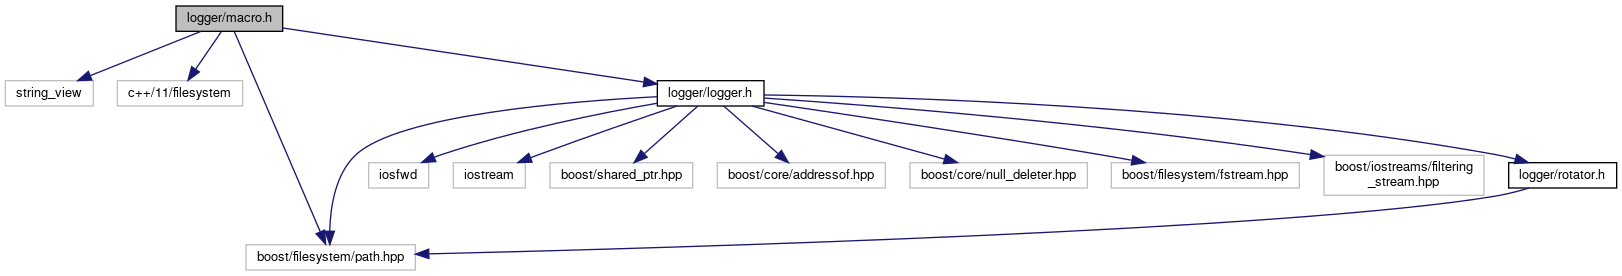
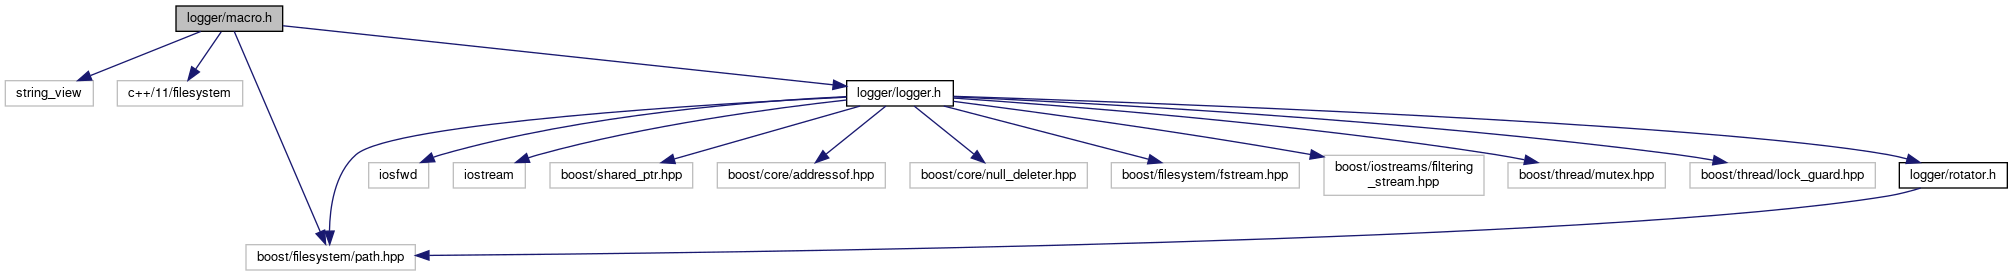
Auto commit

diff --git a/logger_8h_source.html b/logger_8h_source.html
@@ -82,112 +82,117 @@ $(function() {
 <div class="line"><a id="l00013" name="l00013"></a><span class="lineno">   13</span><span class="preprocessor">#include &lt;boost/filesystem/path.hpp&gt;</span></div>
 <div class="line"><a id="l00014" name="l00014"></a><span class="lineno">   14</span><span class="preprocessor">#include &lt;boost/filesystem/fstream.hpp&gt;</span></div>
 <div class="line"><a id="l00015" name="l00015"></a><span class="lineno">   15</span><span class="preprocessor">#include &lt;boost/iostreams/filtering_stream.hpp&gt;</span></div>
-<div class="line"><a id="l00016" name="l00016"></a><span class="lineno">   16</span> </div>
-<div class="line"><a id="l00017" name="l00017"></a><span class="lineno">   17</span><span class="preprocessor">#include &lt;<a class="code" href="rotator_8h.html">logger/rotator.h</a>&gt;</span></div>
+<div class="line"><a id="l00016" name="l00016"></a><span class="lineno">   16</span><span class="preprocessor">#include &lt;boost/thread/mutex.hpp&gt;</span></div>
+<div class="line"><a id="l00017" name="l00017"></a><span class="lineno">   17</span><span class="preprocessor">#include &lt;boost/thread/lock_guard.hpp&gt;</span></div>
 <div class="line"><a id="l00018" name="l00018"></a><span class="lineno">   18</span> </div>
-<div class="line"><a id="l00019" name="l00019"></a><span class="lineno">   19</span> </div>
-<div class="line"><a id="l00020" name="l00020"></a><span class="lineno">   20</span><span class="keyword">namespace </span>alexen {</div>
-<div class="line"><a id="l00021" name="l00021"></a><span class="lineno">   21</span><span class="keyword">namespace </span>tiny_logger {</div>
-<div class="line"><a id="l00022" name="l00022"></a><span class="lineno">   22</span> </div>
-<div class="line"><a id="l00023" name="l00023"></a><span class="lineno">   23</span> </div>
-<div class="line"><a id="l00029" name="l00029"></a><span class="lineno"><a class="line" href="logger_8h.html#aec4cb4747f49b847e8ebcaaf7c097165">   29</a></span><span class="keyword">enum</span> <a class="code hl_enumeration" href="logger_8h.html#aec4cb4747f49b847e8ebcaaf7c097165">Level</a> {</div>
-<div class="line"><a id="l00030" name="l00030"></a><span class="lineno">   30</span>     Debug,</div>
-<div class="line"><a id="l00031" name="l00031"></a><span class="lineno">   31</span>     Info,</div>
-<div class="line"><a id="l00032" name="l00032"></a><span class="lineno">   32</span>     Warn,</div>
-<div class="line"><a id="l00033" name="l00033"></a><span class="lineno">   33</span>     Error</div>
-<div class="line"><a id="l00034" name="l00034"></a><span class="lineno">   34</span>};</div>
-<div class="line"><a id="l00035" name="l00035"></a><span class="lineno">   35</span> </div>
-<div class="line"><a id="l00036" name="l00036"></a><span class="lineno">   36</span> </div>
-<div class="line"><a id="l00042" name="l00042"></a><span class="lineno"><a class="line" href="classalexen_1_1tiny__logger_1_1LoggerRecord.html">   42</a></span><span class="keyword">class </span><a class="code hl_class" href="classalexen_1_1tiny__logger_1_1LoggerRecord.html">LoggerRecord</a> {</div>
-<div class="line"><a id="l00043" name="l00043"></a><span class="lineno">   43</span><span class="keyword">public</span>:</div>
-<div class="line"><a id="l00044" name="l00044"></a><span class="lineno">   44</span>     <span class="keyword">explicit</span> <a class="code hl_class" href="classalexen_1_1tiny__logger_1_1LoggerRecord.html">LoggerRecord</a>( std::ostream&amp; os, <span class="keyword">const</span> <a class="code hl_enumeration" href="logger_8h.html#aec4cb4747f49b847e8ebcaaf7c097165">Level</a> level );</div>
-<div class="line"><a id="l00045" name="l00045"></a><span class="lineno">   45</span>     <a class="code hl_class" href="classalexen_1_1tiny__logger_1_1LoggerRecord.html">~LoggerRecord</a>();</div>
-<div class="line"><a id="l00046" name="l00046"></a><span class="lineno">   46</span> </div>
-<div class="line"><a id="l00049" name="l00049"></a><span class="lineno">   49</span>     <span class="keyword">template</span>&lt; <span class="keyword">typename</span> T &gt;</div>
-<div class="line"><a id="l00050" name="l00050"></a><span class="lineno"><a class="line" href="classalexen_1_1tiny__logger_1_1LoggerRecord.html#a2beb5517296e1d19a96a37908b32c3c0">   50</a></span>     <a class="code hl_class" href="classalexen_1_1tiny__logger_1_1LoggerRecord.html">LoggerRecord</a>&amp; <a class="code hl_function" href="classalexen_1_1tiny__logger_1_1LoggerRecord.html#a2beb5517296e1d19a96a37908b32c3c0">operator&lt;&lt;</a>( <span class="keyword">const</span> T&amp; value )</div>
-<div class="line"><a id="l00051" name="l00051"></a><span class="lineno">   51</span>     {</div>
-<div class="line"><a id="l00052" name="l00052"></a><span class="lineno">   52</span>          os_ &lt;&lt; value;</div>
-<div class="line"><a id="l00053" name="l00053"></a><span class="lineno">   53</span>          <span class="keywordflow">return</span> *<span class="keyword">this</span>;</div>
-<div class="line"><a id="l00054" name="l00054"></a><span class="lineno">   54</span>     }</div>
-<div class="line"><a id="l00055" name="l00055"></a><span class="lineno">   55</span><span class="keyword">private</span>:</div>
-<div class="line"><a id="l00056" name="l00056"></a><span class="lineno">   56</span>     std::ostream&amp; os_;</div>
-<div class="line"><a id="l00057" name="l00057"></a><span class="lineno">   57</span>};</div>
-<div class="line"><a id="l00058" name="l00058"></a><span class="lineno">   58</span> </div>
-<div class="line"><a id="l00059" name="l00059"></a><span class="lineno">   59</span> </div>
-<div class="line"><a id="l00060" name="l00060"></a><span class="lineno">   60</span><span class="keyword">using</span> OstreamPtr = boost::shared_ptr&lt; std::ostream &gt;;</div>
+<div class="line"><a id="l00019" name="l00019"></a><span class="lineno">   19</span><span class="preprocessor">#include &lt;<a class="code" href="rotator_8h.html">logger/rotator.h</a>&gt;</span></div>
+<div class="line"><a id="l00020" name="l00020"></a><span class="lineno">   20</span> </div>
+<div class="line"><a id="l00021" name="l00021"></a><span class="lineno">   21</span> </div>
+<div class="line"><a id="l00022" name="l00022"></a><span class="lineno">   22</span><span class="keyword">namespace </span>alexen {</div>
+<div class="line"><a id="l00023" name="l00023"></a><span class="lineno">   23</span><span class="keyword">namespace </span>tiny_logger {</div>
+<div class="line"><a id="l00024" name="l00024"></a><span class="lineno">   24</span> </div>
+<div class="line"><a id="l00025" name="l00025"></a><span class="lineno">   25</span> </div>
+<div class="line"><a id="l00031" name="l00031"></a><span class="lineno"><a class="line" href="logger_8h.html#aec4cb4747f49b847e8ebcaaf7c097165">   31</a></span><span class="keyword">enum</span> <a class="code hl_enumeration" href="logger_8h.html#aec4cb4747f49b847e8ebcaaf7c097165">Level</a> {</div>
+<div class="line"><a id="l00032" name="l00032"></a><span class="lineno">   32</span>     Debug,</div>
+<div class="line"><a id="l00033" name="l00033"></a><span class="lineno">   33</span>     Info,</div>
+<div class="line"><a id="l00034" name="l00034"></a><span class="lineno">   34</span>     Warn,</div>
+<div class="line"><a id="l00035" name="l00035"></a><span class="lineno">   35</span>     Error</div>
+<div class="line"><a id="l00036" name="l00036"></a><span class="lineno">   36</span>};</div>
+<div class="line"><a id="l00037" name="l00037"></a><span class="lineno">   37</span> </div>
+<div class="line"><a id="l00038" name="l00038"></a><span class="lineno">   38</span> </div>
+<div class="line"><a id="l00044" name="l00044"></a><span class="lineno"><a class="line" href="classalexen_1_1tiny__logger_1_1LoggerRecord.html">   44</a></span><span class="keyword">class </span><a class="code hl_class" href="classalexen_1_1tiny__logger_1_1LoggerRecord.html">LoggerRecord</a> {</div>
+<div class="line"><a id="l00045" name="l00045"></a><span class="lineno">   45</span><span class="keyword">public</span>:</div>
+<div class="line"><a id="l00046" name="l00046"></a><span class="lineno">   46</span>     <a class="code hl_class" href="classalexen_1_1tiny__logger_1_1LoggerRecord.html">LoggerRecord</a>( boost::mutex&amp; m, std::ostream&amp; os, <span class="keyword">const</span> <a class="code hl_enumeration" href="logger_8h.html#aec4cb4747f49b847e8ebcaaf7c097165">Level</a> level );</div>
+<div class="line"><a id="l00047" name="l00047"></a><span class="lineno">   47</span>     <a class="code hl_class" href="classalexen_1_1tiny__logger_1_1LoggerRecord.html">~LoggerRecord</a>();</div>
+<div class="line"><a id="l00048" name="l00048"></a><span class="lineno">   48</span> </div>
+<div class="line"><a id="l00051" name="l00051"></a><span class="lineno">   51</span>     <span class="keyword">template</span>&lt; <span class="keyword">typename</span> T &gt;</div>
+<div class="line"><a id="l00052" name="l00052"></a><span class="lineno"><a class="line" href="classalexen_1_1tiny__logger_1_1LoggerRecord.html#a2beb5517296e1d19a96a37908b32c3c0">   52</a></span>     <a class="code hl_class" href="classalexen_1_1tiny__logger_1_1LoggerRecord.html">LoggerRecord</a>&amp; <a class="code hl_function" href="classalexen_1_1tiny__logger_1_1LoggerRecord.html#a2beb5517296e1d19a96a37908b32c3c0">operator&lt;&lt;</a>( <span class="keyword">const</span> T&amp; value )</div>
+<div class="line"><a id="l00053" name="l00053"></a><span class="lineno">   53</span>     {</div>
+<div class="line"><a id="l00054" name="l00054"></a><span class="lineno">   54</span>          os_ &lt;&lt; value;</div>
+<div class="line"><a id="l00055" name="l00055"></a><span class="lineno">   55</span>          <span class="keywordflow">return</span> *<span class="keyword">this</span>;</div>
+<div class="line"><a id="l00056" name="l00056"></a><span class="lineno">   56</span>     }</div>
+<div class="line"><a id="l00057" name="l00057"></a><span class="lineno">   57</span><span class="keyword">private</span>:</div>
+<div class="line"><a id="l00058" name="l00058"></a><span class="lineno">   58</span>     boost::lock_guard&lt; boost::mutex &gt; lock_;</div>
+<div class="line"><a id="l00059" name="l00059"></a><span class="lineno">   59</span>     std::ostream&amp; os_;</div>
+<div class="line"><a id="l00060" name="l00060"></a><span class="lineno">   60</span>};</div>
 <div class="line"><a id="l00061" name="l00061"></a><span class="lineno">   61</span> </div>
 <div class="line"><a id="l00062" name="l00062"></a><span class="lineno">   62</span> </div>
-<div class="line"><a id="l00069" name="l00069"></a><span class="lineno"><a class="line" href="logger_8h.html#a1cb844f18013bf389caca06165921eba">   69</a></span><span class="keyword">inline</span> OstreamPtr <a class="code hl_function" href="logger_8h.html#a1cb844f18013bf389caca06165921eba">makeOstreamPtr</a>( std::ostream&amp; os )</div>
-<div class="line"><a id="l00070" name="l00070"></a><span class="lineno">   70</span>{</div>
-<div class="line"><a id="l00071" name="l00071"></a><span class="lineno">   71</span>     <span class="keywordflow">return</span> boost::shared_ptr&lt; std::ostream &gt;{ boost::addressof( os ), boost::null_deleter{} };</div>
-<div class="line"><a id="l00072" name="l00072"></a><span class="lineno">   72</span>}</div>
-<div class="line"><a id="l00073" name="l00073"></a><span class="lineno">   73</span> </div>
-<div class="line"><a id="l00074" name="l00074"></a><span class="lineno">   74</span> </div>
-<div class="line"><a id="l00076" name="l00076"></a><span class="lineno"><a class="line" href="structalexen_1_1tiny__logger_1_1Counter.html">   76</a></span><span class="keyword">struct </span><a class="code hl_struct" href="structalexen_1_1tiny__logger_1_1Counter.html">Counter</a> : boost::iostreams::multichar_output_filter {</div>
-<div class="line"><a id="l00077" name="l00077"></a><span class="lineno">   77</span>     <span class="keyword">explicit</span> <a class="code hl_struct" href="structalexen_1_1tiny__logger_1_1Counter.html">Counter</a>( std::size_t init = 0u ) : chars_{ init } {}</div>
-<div class="line"><a id="l00078" name="l00078"></a><span class="lineno">   78</span> </div>
-<div class="line"><a id="l00079" name="l00079"></a><span class="lineno">   79</span>     <span class="keyword">template</span>&lt; <span class="keyword">typename</span> Sink &gt;</div>
-<div class="line"><a id="l00080" name="l00080"></a><span class="lineno">   80</span>     std::streamsize write( Sink&amp; sink, <span class="keyword">const</span> char_type* s, std::streamsize n )</div>
-<div class="line"><a id="l00081" name="l00081"></a><span class="lineno">   81</span>     {</div>
-<div class="line"><a id="l00082" name="l00082"></a><span class="lineno">   82</span>          <span class="keyword">const</span> <span class="keyword">auto</span> result = boost::iostreams::write( sink, s, n );</div>
-<div class="line"><a id="l00083" name="l00083"></a><span class="lineno">   83</span>          chars_ += result &gt; 0 ? result : 0;</div>
-<div class="line"><a id="l00084" name="l00084"></a><span class="lineno">   84</span>          <span class="keywordflow">return</span> result;</div>
-<div class="line"><a id="l00085" name="l00085"></a><span class="lineno">   85</span>     }</div>
-<div class="line"><a id="l00086" name="l00086"></a><span class="lineno">   86</span> </div>
-<div class="line"><a id="l00087" name="l00087"></a><span class="lineno">   87</span>     std::size_t chars() <span class="keyword">const</span> <span class="keyword">noexcept</span> { <span class="keywordflow">return</span> chars_; }</div>
-<div class="line"><a id="l00088" name="l00088"></a><span class="lineno">   88</span>     <span class="keywordtype">void</span> reset( std::size_t init = 0u ) <span class="keyword">noexcept</span> { chars_ = init; }</div>
+<div class="line"><a id="l00063" name="l00063"></a><span class="lineno">   63</span><span class="keyword">using</span> OstreamPtr = boost::shared_ptr&lt; std::ostream &gt;;</div>
+<div class="line"><a id="l00064" name="l00064"></a><span class="lineno">   64</span> </div>
+<div class="line"><a id="l00065" name="l00065"></a><span class="lineno">   65</span> </div>
+<div class="line"><a id="l00072" name="l00072"></a><span class="lineno"><a class="line" href="logger_8h.html#a1cb844f18013bf389caca06165921eba">   72</a></span><span class="keyword">inline</span> OstreamPtr <a class="code hl_function" href="logger_8h.html#a1cb844f18013bf389caca06165921eba">makeOstreamPtr</a>( std::ostream&amp; os )</div>
+<div class="line"><a id="l00073" name="l00073"></a><span class="lineno">   73</span>{</div>
+<div class="line"><a id="l00074" name="l00074"></a><span class="lineno">   74</span>     <span class="keywordflow">return</span> boost::shared_ptr&lt; std::ostream &gt;{ boost::addressof( os ), boost::null_deleter{} };</div>
+<div class="line"><a id="l00075" name="l00075"></a><span class="lineno">   75</span>}</div>
+<div class="line"><a id="l00076" name="l00076"></a><span class="lineno">   76</span> </div>
+<div class="line"><a id="l00077" name="l00077"></a><span class="lineno">   77</span> </div>
+<div class="line"><a id="l00079" name="l00079"></a><span class="lineno"><a class="line" href="structalexen_1_1tiny__logger_1_1Counter.html">   79</a></span><span class="keyword">struct </span><a class="code hl_struct" href="structalexen_1_1tiny__logger_1_1Counter.html">Counter</a> : boost::iostreams::multichar_output_filter {</div>
+<div class="line"><a id="l00080" name="l00080"></a><span class="lineno">   80</span>     <span class="keyword">explicit</span> <a class="code hl_struct" href="structalexen_1_1tiny__logger_1_1Counter.html">Counter</a>( std::size_t init = 0u ) : chars_{ init } {}</div>
+<div class="line"><a id="l00081" name="l00081"></a><span class="lineno">   81</span> </div>
+<div class="line"><a id="l00082" name="l00082"></a><span class="lineno">   82</span>     <span class="keyword">template</span>&lt; <span class="keyword">typename</span> Sink &gt;</div>
+<div class="line"><a id="l00083" name="l00083"></a><span class="lineno">   83</span>     std::streamsize write( Sink&amp; sink, <span class="keyword">const</span> char_type* s, std::streamsize n )</div>
+<div class="line"><a id="l00084" name="l00084"></a><span class="lineno">   84</span>     {</div>
+<div class="line"><a id="l00085" name="l00085"></a><span class="lineno">   85</span>          <span class="keyword">const</span> <span class="keyword">auto</span> result = boost::iostreams::write( sink, s, n );</div>
+<div class="line"><a id="l00086" name="l00086"></a><span class="lineno">   86</span>          chars_ += result &gt; 0 ? result : 0;</div>
+<div class="line"><a id="l00087" name="l00087"></a><span class="lineno">   87</span>          <span class="keywordflow">return</span> result;</div>
+<div class="line"><a id="l00088" name="l00088"></a><span class="lineno">   88</span>     }</div>
 <div class="line"><a id="l00089" name="l00089"></a><span class="lineno">   89</span> </div>
-<div class="line"><a id="l00090" name="l00090"></a><span class="lineno">   90</span><span class="keyword">private</span>:</div>
-<div class="line"><a id="l00091" name="l00091"></a><span class="lineno">   91</span>     std::size_t chars_ = 0;</div>
-<div class="line"><a id="l00092" name="l00092"></a><span class="lineno">   92</span>};</div>
-<div class="line"><a id="l00093" name="l00093"></a><span class="lineno">   93</span> </div>
-<div class="line"><a id="l00094" name="l00094"></a><span class="lineno">   94</span> </div>
-<div class="line"><a id="l00095" name="l00095"></a><span class="lineno"><a class="line" href="classalexen_1_1tiny__logger_1_1Logger.html">   95</a></span><span class="keyword">class </span><a class="code hl_class" href="classalexen_1_1tiny__logger_1_1Logger.html">Logger</a> {</div>
-<div class="line"><a id="l00096" name="l00096"></a><span class="lineno">   96</span><span class="keyword">public</span>:</div>
-<div class="line"><a id="l00097" name="l00097"></a><span class="lineno">   97</span>     <a class="code hl_class" href="classalexen_1_1tiny__logger_1_1Logger.html">Logger</a>(</div>
-<div class="line"><a id="l00098" name="l00098"></a><span class="lineno">   98</span>          <span class="keyword">const</span> std::string&amp; appName</div>
-<div class="line"><a id="l00099" name="l00099"></a><span class="lineno">   99</span>          , <span class="keyword">const</span> boost::filesystem::path&amp; logDir</div>
-<div class="line"><a id="l00100" name="l00100"></a><span class="lineno">  100</span>          , OstreamPtr console = <a class="code hl_function" href="logger_8h.html#a1cb844f18013bf389caca06165921eba">makeOstreamPtr</a>( std::cerr )</div>
-<div class="line"><a id="l00101" name="l00101"></a><span class="lineno">  101</span>     );</div>
-<div class="line"><a id="l00102" name="l00102"></a><span class="lineno">  102</span> </div>
-<div class="line"><a id="l00104" name="l00104"></a><span class="lineno"><a class="line" href="classalexen_1_1tiny__logger_1_1Logger.html#a16cc846e8c4701dae92d758d0a9c49fb">  104</a></span>     <a class="code hl_class" href="classalexen_1_1tiny__logger_1_1LoggerRecord.html">LoggerRecord</a> <a class="code hl_function" href="classalexen_1_1tiny__logger_1_1Logger.html#a16cc846e8c4701dae92d758d0a9c49fb">operator()</a>( <span class="keyword">const</span> <a class="code hl_enumeration" href="logger_8h.html#aec4cb4747f49b847e8ebcaaf7c097165">Level</a> );</div>
+<div class="line"><a id="l00090" name="l00090"></a><span class="lineno">   90</span>     std::size_t chars() <span class="keyword">const</span> <span class="keyword">noexcept</span> { <span class="keywordflow">return</span> chars_; }</div>
+<div class="line"><a id="l00091" name="l00091"></a><span class="lineno">   91</span>     <span class="keywordtype">void</span> reset( std::size_t init = 0u ) <span class="keyword">noexcept</span> { chars_ = init; }</div>
+<div class="line"><a id="l00092" name="l00092"></a><span class="lineno">   92</span> </div>
+<div class="line"><a id="l00093" name="l00093"></a><span class="lineno">   93</span><span class="keyword">private</span>:</div>
+<div class="line"><a id="l00094" name="l00094"></a><span class="lineno">   94</span>     std::size_t chars_ = 0;</div>
+<div class="line"><a id="l00095" name="l00095"></a><span class="lineno">   95</span>};</div>
+<div class="line"><a id="l00096" name="l00096"></a><span class="lineno">   96</span> </div>
+<div class="line"><a id="l00097" name="l00097"></a><span class="lineno">   97</span> </div>
+<div class="line"><a id="l00098" name="l00098"></a><span class="lineno"><a class="line" href="classalexen_1_1tiny__logger_1_1Logger.html">   98</a></span><span class="keyword">class </span><a class="code hl_class" href="classalexen_1_1tiny__logger_1_1Logger.html">Logger</a> {</div>
+<div class="line"><a id="l00099" name="l00099"></a><span class="lineno">   99</span><span class="keyword">public</span>:</div>
+<div class="line"><a id="l00100" name="l00100"></a><span class="lineno">  100</span>     <a class="code hl_class" href="classalexen_1_1tiny__logger_1_1Logger.html">Logger</a>(</div>
+<div class="line"><a id="l00101" name="l00101"></a><span class="lineno">  101</span>          <span class="keyword">const</span> std::string&amp; appName</div>
+<div class="line"><a id="l00102" name="l00102"></a><span class="lineno">  102</span>          , <span class="keyword">const</span> boost::filesystem::path&amp; logDir</div>
+<div class="line"><a id="l00103" name="l00103"></a><span class="lineno">  103</span>          , OstreamPtr console = <a class="code hl_function" href="logger_8h.html#a1cb844f18013bf389caca06165921eba">makeOstreamPtr</a>( std::cerr )</div>
+<div class="line"><a id="l00104" name="l00104"></a><span class="lineno">  104</span>     );</div>
 <div class="line"><a id="l00105" name="l00105"></a><span class="lineno">  105</span> </div>
-<div class="line"><a id="l00107" name="l00107"></a><span class="lineno"><a class="line" href="classalexen_1_1tiny__logger_1_1Logger.html#ab9fddc5dba9c41e61608aaab4e65ee4b">  107</a></span>     <a class="code hl_class" href="classalexen_1_1tiny__logger_1_1LoggerRecord.html">LoggerRecord</a> <a class="code hl_function" href="classalexen_1_1tiny__logger_1_1Logger.html#ab9fddc5dba9c41e61608aaab4e65ee4b">debug</a>() { <span class="keywordflow">return</span> <a class="code hl_function" href="classalexen_1_1tiny__logger_1_1Logger.html#a16cc846e8c4701dae92d758d0a9c49fb">operator()</a>( Debug ); }</div>
-<div class="line"><a id="l00108" name="l00108"></a><span class="lineno">  108</span>     <a class="code hl_class" href="classalexen_1_1tiny__logger_1_1LoggerRecord.html">LoggerRecord</a> info()  { <span class="keywordflow">return</span> <a class="code hl_function" href="classalexen_1_1tiny__logger_1_1Logger.html#a16cc846e8c4701dae92d758d0a9c49fb">operator()</a>( Info ); }</div>
-<div class="line"><a id="l00109" name="l00109"></a><span class="lineno">  109</span>     LoggerRecord warn()  { <span class="keywordflow">return</span> <a class="code hl_function" href="classalexen_1_1tiny__logger_1_1Logger.html#a16cc846e8c4701dae92d758d0a9c49fb">operator()</a>( Warn ); }</div>
-<div class="line"><a id="l00110" name="l00110"></a><span class="lineno">  110</span>     LoggerRecord error() { <span class="keywordflow">return</span> <a class="code hl_function" href="classalexen_1_1tiny__logger_1_1Logger.html#a16cc846e8c4701dae92d758d0a9c49fb">operator()</a>( Error ); }</div>
-<div class="line"><a id="l00111" name="l00111"></a><span class="lineno">  111</span> </div>
-<div class="line"><a id="l00113" name="l00113"></a><span class="lineno"><a class="line" href="classalexen_1_1tiny__logger_1_1Logger.html#aa1ce70435e84a95289f9282447b98a18">  113</a></span>     std::uintmax_t <a class="code hl_function" href="classalexen_1_1tiny__logger_1_1Logger.html#aa1ce70435e84a95289f9282447b98a18">totalRecords</a>() const noexcept { <span class="keywordflow">return</span> totalRecords_; }</div>
+<div class="line"><a id="l00107" name="l00107"></a><span class="lineno"><a class="line" href="classalexen_1_1tiny__logger_1_1Logger.html#a16cc846e8c4701dae92d758d0a9c49fb">  107</a></span>     <a class="code hl_class" href="classalexen_1_1tiny__logger_1_1LoggerRecord.html">LoggerRecord</a> <a class="code hl_function" href="classalexen_1_1tiny__logger_1_1Logger.html#a16cc846e8c4701dae92d758d0a9c49fb">operator()</a>( <span class="keyword">const</span> <a class="code hl_enumeration" href="logger_8h.html#aec4cb4747f49b847e8ebcaaf7c097165">Level</a> );</div>
+<div class="line"><a id="l00108" name="l00108"></a><span class="lineno">  108</span> </div>
+<div class="line"><a id="l00110" name="l00110"></a><span class="lineno"><a class="line" href="classalexen_1_1tiny__logger_1_1Logger.html#ab9fddc5dba9c41e61608aaab4e65ee4b">  110</a></span>     <a class="code hl_class" href="classalexen_1_1tiny__logger_1_1LoggerRecord.html">LoggerRecord</a> <a class="code hl_function" href="classalexen_1_1tiny__logger_1_1Logger.html#ab9fddc5dba9c41e61608aaab4e65ee4b">debug</a>() { <span class="keywordflow">return</span> <a class="code hl_function" href="classalexen_1_1tiny__logger_1_1Logger.html#a16cc846e8c4701dae92d758d0a9c49fb">operator()</a>( Debug ); }</div>
+<div class="line"><a id="l00111" name="l00111"></a><span class="lineno">  111</span>     <a class="code hl_class" href="classalexen_1_1tiny__logger_1_1LoggerRecord.html">LoggerRecord</a> info()  { <span class="keywordflow">return</span> <a class="code hl_function" href="classalexen_1_1tiny__logger_1_1Logger.html#a16cc846e8c4701dae92d758d0a9c49fb">operator()</a>( Info ); }</div>
+<div class="line"><a id="l00112" name="l00112"></a><span class="lineno">  112</span>     LoggerRecord warn()  { <span class="keywordflow">return</span> <a class="code hl_function" href="classalexen_1_1tiny__logger_1_1Logger.html#a16cc846e8c4701dae92d758d0a9c49fb">operator()</a>( Warn ); }</div>
+<div class="line"><a id="l00113" name="l00113"></a><span class="lineno">  113</span>     LoggerRecord error() { <span class="keywordflow">return</span> <a class="code hl_function" href="classalexen_1_1tiny__logger_1_1Logger.html#a16cc846e8c4701dae92d758d0a9c49fb">operator()</a>( Error ); }</div>
 <div class="line"><a id="l00114" name="l00114"></a><span class="lineno">  114</span> </div>
-<div class="line"><a id="l00115" name="l00115"></a><span class="lineno">  115</span><span class="keyword">private</span>:</div>
-<div class="line"><a id="l00116" name="l00116"></a><span class="lineno">  116</span>     <span class="keywordtype">void</span> prepareLogDirectory();</div>
-<div class="line"><a id="l00117" name="l00117"></a><span class="lineno">  117</span>     <span class="keywordtype">void</span> setFilteringStreams();</div>
-<div class="line"><a id="l00118" name="l00118"></a><span class="lineno">  118</span>     <span class="keywordtype">void</span> startLoggingInto( <span class="keyword">const</span> boost::filesystem::path&amp; path );</div>
-<div class="line"><a id="l00119" name="l00119"></a><span class="lineno">  119</span> </div>
-<div class="line"><a id="l00120" name="l00120"></a><span class="lineno">  120</span>     <a class="code hl_class" href="classalexen_1_1tiny__logger_1_1Rotator.html">Rotator</a> rotator_;</div>
-<div class="line"><a id="l00121" name="l00121"></a><span class="lineno">  121</span> </div>
-<div class="line"><a id="l00122" name="l00122"></a><span class="lineno">  122</span>     std::uintmax_t totalRecords_ = 0;</div>
-<div class="line"><a id="l00123" name="l00123"></a><span class="lineno">  123</span> </div>
-<div class="line"><a id="l00126" name="l00126"></a><span class="lineno">  126</span>     OstreamPtr console_;</div>
-<div class="line"><a id="l00127" name="l00127"></a><span class="lineno">  127</span>     boost::filesystem::ofstream ofile_;</div>
-<div class="line"><a id="l00128" name="l00128"></a><span class="lineno">  128</span>     <a class="code hl_struct" href="structalexen_1_1tiny__logger_1_1Counter.html">Counter</a> counter_;</div>
-<div class="line"><a id="l00129" name="l00129"></a><span class="lineno">  129</span>     boost::iostreams::filtering_ostream olog_;</div>
-<div class="line"><a id="l00130" name="l00130"></a><span class="lineno">  130</span>};</div>
-<div class="line"><a id="l00131" name="l00131"></a><span class="lineno">  131</span> </div>
-<div class="line"><a id="l00132" name="l00132"></a><span class="lineno">  132</span> </div>
-<div class="line"><a id="l00133" name="l00133"></a><span class="lineno">  133</span>} <span class="comment">// namespace tiny_logger</span></div>
-<div class="line"><a id="l00134" name="l00134"></a><span class="lineno">  134</span>} <span class="comment">// namespace alexen</span></div>
-<div class="ttc" id="aclassalexen_1_1tiny__logger_1_1LoggerRecord_html"><div class="ttname"><a href="classalexen_1_1tiny__logger_1_1LoggerRecord.html">alexen::tiny_logger::LoggerRecord</a></div><div class="ttdef"><b>Definition:</b> logger.h:42</div></div>
-<div class="ttc" id="aclassalexen_1_1tiny__logger_1_1LoggerRecord_html_a2beb5517296e1d19a96a37908b32c3c0"><div class="ttname"><a href="classalexen_1_1tiny__logger_1_1LoggerRecord.html#a2beb5517296e1d19a96a37908b32c3c0">alexen::tiny_logger::LoggerRecord::operator&lt;&lt;</a></div><div class="ttdeci">LoggerRecord &amp; operator&lt;&lt;(const T &amp;value)</div><div class="ttdef"><b>Definition:</b> logger.h:50</div></div>
-<div class="ttc" id="aclassalexen_1_1tiny__logger_1_1Logger_html"><div class="ttname"><a href="classalexen_1_1tiny__logger_1_1Logger.html">alexen::tiny_logger::Logger</a></div><div class="ttdef"><b>Definition:</b> logger.h:95</div></div>
+<div class="line"><a id="l00116" name="l00116"></a><span class="lineno"><a class="line" href="classalexen_1_1tiny__logger_1_1Logger.html#aa1ce70435e84a95289f9282447b98a18">  116</a></span>     std::uintmax_t <a class="code hl_function" href="classalexen_1_1tiny__logger_1_1Logger.html#aa1ce70435e84a95289f9282447b98a18">totalRecords</a>() const noexcept { <span class="keywordflow">return</span> totalRecords_; }</div>
+<div class="line"><a id="l00117" name="l00117"></a><span class="lineno">  117</span> </div>
+<div class="line"><a id="l00118" name="l00118"></a><span class="lineno">  118</span><span class="keyword">private</span>:</div>
+<div class="line"><a id="l00119" name="l00119"></a><span class="lineno">  119</span>     <span class="keywordtype">void</span> prepareLogDirectory();</div>
+<div class="line"><a id="l00120" name="l00120"></a><span class="lineno">  120</span>     <span class="keywordtype">void</span> setFilteringStreams();</div>
+<div class="line"><a id="l00121" name="l00121"></a><span class="lineno">  121</span>     <span class="keywordtype">void</span> startLoggingInto( <span class="keyword">const</span> boost::filesystem::path&amp; path );</div>
+<div class="line"><a id="l00122" name="l00122"></a><span class="lineno">  122</span> </div>
+<div class="line"><a id="l00123" name="l00123"></a><span class="lineno">  123</span>     <a class="code hl_class" href="classalexen_1_1tiny__logger_1_1Rotator.html">Rotator</a> rotator_;</div>
+<div class="line"><a id="l00124" name="l00124"></a><span class="lineno">  124</span> </div>
+<div class="line"><a id="l00125" name="l00125"></a><span class="lineno">  125</span>     std::uintmax_t totalRecords_ = 0;</div>
+<div class="line"><a id="l00126" name="l00126"></a><span class="lineno">  126</span> </div>
+<div class="line"><a id="l00129" name="l00129"></a><span class="lineno">  129</span>     OstreamPtr console_;</div>
+<div class="line"><a id="l00130" name="l00130"></a><span class="lineno">  130</span>     boost::filesystem::ofstream ofile_;</div>
+<div class="line"><a id="l00131" name="l00131"></a><span class="lineno">  131</span>     <a class="code hl_struct" href="structalexen_1_1tiny__logger_1_1Counter.html">Counter</a> counter_;</div>
+<div class="line"><a id="l00132" name="l00132"></a><span class="lineno">  132</span>     boost::iostreams::filtering_ostream olog_;</div>
+<div class="line"><a id="l00133" name="l00133"></a><span class="lineno">  133</span> </div>
+<div class="line"><a id="l00134" name="l00134"></a><span class="lineno">  134</span>     boost::mutex mutex_;</div>
+<div class="line"><a id="l00135" name="l00135"></a><span class="lineno">  135</span>};</div>
+<div class="line"><a id="l00136" name="l00136"></a><span class="lineno">  136</span> </div>
+<div class="line"><a id="l00137" name="l00137"></a><span class="lineno">  137</span> </div>
+<div class="line"><a id="l00138" name="l00138"></a><span class="lineno">  138</span>} <span class="comment">// namespace tiny_logger</span></div>
+<div class="line"><a id="l00139" name="l00139"></a><span class="lineno">  139</span>} <span class="comment">// namespace alexen</span></div>
+<div class="ttc" id="aclassalexen_1_1tiny__logger_1_1LoggerRecord_html"><div class="ttname"><a href="classalexen_1_1tiny__logger_1_1LoggerRecord.html">alexen::tiny_logger::LoggerRecord</a></div><div class="ttdef"><b>Definition:</b> logger.h:44</div></div>
+<div class="ttc" id="aclassalexen_1_1tiny__logger_1_1LoggerRecord_html_a2beb5517296e1d19a96a37908b32c3c0"><div class="ttname"><a href="classalexen_1_1tiny__logger_1_1LoggerRecord.html#a2beb5517296e1d19a96a37908b32c3c0">alexen::tiny_logger::LoggerRecord::operator&lt;&lt;</a></div><div class="ttdeci">LoggerRecord &amp; operator&lt;&lt;(const T &amp;value)</div><div class="ttdef"><b>Definition:</b> logger.h:52</div></div>
+<div class="ttc" id="aclassalexen_1_1tiny__logger_1_1Logger_html"><div class="ttname"><a href="classalexen_1_1tiny__logger_1_1Logger.html">alexen::tiny_logger::Logger</a></div><div class="ttdef"><b>Definition:</b> logger.h:98</div></div>
 <div class="ttc" id="aclassalexen_1_1tiny__logger_1_1Logger_html_a16cc846e8c4701dae92d758d0a9c49fb"><div class="ttname"><a href="classalexen_1_1tiny__logger_1_1Logger.html#a16cc846e8c4701dae92d758d0a9c49fb">alexen::tiny_logger::Logger::operator()</a></div><div class="ttdeci">LoggerRecord operator()(const Level)</div><div class="ttdoc">Основной метод вывода в лог с указанием уровня логгирования</div></div>
-<div class="ttc" id="aclassalexen_1_1tiny__logger_1_1Logger_html_aa1ce70435e84a95289f9282447b98a18"><div class="ttname"><a href="classalexen_1_1tiny__logger_1_1Logger.html#aa1ce70435e84a95289f9282447b98a18">alexen::tiny_logger::Logger::totalRecords</a></div><div class="ttdeci">std::uintmax_t totalRecords() const noexcept</div><div class="ttdoc">Возвращает кол-во LogRecord, сделанных за время жизни Logger.</div><div class="ttdef"><b>Definition:</b> logger.h:113</div></div>
-<div class="ttc" id="aclassalexen_1_1tiny__logger_1_1Logger_html_ab9fddc5dba9c41e61608aaab4e65ee4b"><div class="ttname"><a href="classalexen_1_1tiny__logger_1_1Logger.html#ab9fddc5dba9c41e61608aaab4e65ee4b">alexen::tiny_logger::Logger::debug</a></div><div class="ttdeci">LoggerRecord debug()</div><div class="ttdoc">Вспомогательные методы вывода в лог для упрощения кода</div><div class="ttdef"><b>Definition:</b> logger.h:107</div></div>
+<div class="ttc" id="aclassalexen_1_1tiny__logger_1_1Logger_html_aa1ce70435e84a95289f9282447b98a18"><div class="ttname"><a href="classalexen_1_1tiny__logger_1_1Logger.html#aa1ce70435e84a95289f9282447b98a18">alexen::tiny_logger::Logger::totalRecords</a></div><div class="ttdeci">std::uintmax_t totalRecords() const noexcept</div><div class="ttdoc">Возвращает кол-во LogRecord, сделанных за время жизни Logger.</div><div class="ttdef"><b>Definition:</b> logger.h:116</div></div>
+<div class="ttc" id="aclassalexen_1_1tiny__logger_1_1Logger_html_ab9fddc5dba9c41e61608aaab4e65ee4b"><div class="ttname"><a href="classalexen_1_1tiny__logger_1_1Logger.html#ab9fddc5dba9c41e61608aaab4e65ee4b">alexen::tiny_logger::Logger::debug</a></div><div class="ttdeci">LoggerRecord debug()</div><div class="ttdoc">Вспомогательные методы вывода в лог для упрощения кода</div><div class="ttdef"><b>Definition:</b> logger.h:110</div></div>
 <div class="ttc" id="aclassalexen_1_1tiny__logger_1_1Rotator_html"><div class="ttname"><a href="classalexen_1_1tiny__logger_1_1Rotator.html">alexen::tiny_logger::Rotator</a></div><div class="ttdef"><b>Definition:</b> rotator.h:23</div></div>
-<div class="ttc" id="alogger_8h_html_a1cb844f18013bf389caca06165921eba"><div class="ttname"><a href="logger_8h.html#a1cb844f18013bf389caca06165921eba">alexen::tiny_logger::makeOstreamPtr</a></div><div class="ttdeci">OstreamPtr makeOstreamPtr(std::ostream &amp;os)</div><div class="ttdef"><b>Definition:</b> logger.h:69</div></div>
-<div class="ttc" id="alogger_8h_html_aec4cb4747f49b847e8ebcaaf7c097165"><div class="ttname"><a href="logger_8h.html#aec4cb4747f49b847e8ebcaaf7c097165">alexen::tiny_logger::Level</a></div><div class="ttdeci">Level</div><div class="ttdef"><b>Definition:</b> logger.h:29</div></div>
+<div class="ttc" id="alogger_8h_html_a1cb844f18013bf389caca06165921eba"><div class="ttname"><a href="logger_8h.html#a1cb844f18013bf389caca06165921eba">alexen::tiny_logger::makeOstreamPtr</a></div><div class="ttdeci">OstreamPtr makeOstreamPtr(std::ostream &amp;os)</div><div class="ttdef"><b>Definition:</b> logger.h:72</div></div>
+<div class="ttc" id="alogger_8h_html_aec4cb4747f49b847e8ebcaaf7c097165"><div class="ttname"><a href="logger_8h.html#aec4cb4747f49b847e8ebcaaf7c097165">alexen::tiny_logger::Level</a></div><div class="ttdeci">Level</div><div class="ttdef"><b>Definition:</b> logger.h:31</div></div>
 <div class="ttc" id="arotator_8h_html"><div class="ttname"><a href="rotator_8h.html">rotator.h</a></div></div>
-<div class="ttc" id="astructalexen_1_1tiny__logger_1_1Counter_html"><div class="ttname"><a href="structalexen_1_1tiny__logger_1_1Counter.html">alexen::tiny_logger::Counter</a></div><div class="ttdoc">Фильтр для подсчета кол-во записанных в поток байт</div><div class="ttdef"><b>Definition:</b> logger.h:76</div></div>
+<div class="ttc" id="astructalexen_1_1tiny__logger_1_1Counter_html"><div class="ttname"><a href="structalexen_1_1tiny__logger_1_1Counter.html">alexen::tiny_logger::Counter</a></div><div class="ttdoc">Фильтр для подсчета кол-во записанных в поток байт</div><div class="ttdef"><b>Definition:</b> logger.h:79</div></div>
 </div><!-- fragment --></div><!-- contents -->
 <!-- start footer part -->
 <hr class="footer"/><address class="footer"><small>

diff --git a/classalexen_1_1tiny__logger_1_1LoggerRecord-members.html b/classalexen_1_1tiny__logger_1_1LoggerRecord-members.html
@@ -72,7 +72,7 @@ $(function() {
 
 <p>Полный список членов класса <a class="el" href="classalexen_1_1tiny__logger_1_1LoggerRecord.html">alexen::tiny_logger::LoggerRecord</a>, включая наследуемые из базового класса</p>
 <table class="directory">
-  <tr bgcolor="#f0f0f0" class="even"><td class="entry"><b>LoggerRecord</b>(std::ostream &amp;os, const Level level) (определено в <a class="el" href="classalexen_1_1tiny__logger_1_1LoggerRecord.html">alexen::tiny_logger::LoggerRecord</a>)</td><td class="entry"><a class="el" href="classalexen_1_1tiny__logger_1_1LoggerRecord.html">alexen::tiny_logger::LoggerRecord</a></td><td class="entry"><span class="mlabel">explicit</span></td></tr>
+  <tr bgcolor="#f0f0f0" class="even"><td class="entry"><b>LoggerRecord</b>(boost::mutex &amp;m, std::ostream &amp;os, const Level level) (определено в <a class="el" href="classalexen_1_1tiny__logger_1_1LoggerRecord.html">alexen::tiny_logger::LoggerRecord</a>)</td><td class="entry"><a class="el" href="classalexen_1_1tiny__logger_1_1LoggerRecord.html">alexen::tiny_logger::LoggerRecord</a></td><td class="entry"></td></tr>
   <tr class="odd"><td class="entry"><a class="el" href="classalexen_1_1tiny__logger_1_1LoggerRecord.html#a2beb5517296e1d19a96a37908b32c3c0">operator&lt;&lt;</a>(const T &amp;value)</td><td class="entry"><a class="el" href="classalexen_1_1tiny__logger_1_1LoggerRecord.html">alexen::tiny_logger::LoggerRecord</a></td><td class="entry"><span class="mlabel">inline</span></td></tr>
   <tr bgcolor="#f0f0f0" class="even"><td class="entry"><b>~LoggerRecord</b>() (определено в <a class="el" href="classalexen_1_1tiny__logger_1_1LoggerRecord.html">alexen::tiny_logger::LoggerRecord</a>)</td><td class="entry"><a class="el" href="classalexen_1_1tiny__logger_1_1LoggerRecord.html">alexen::tiny_logger::LoggerRecord</a></td><td class="entry"></td></tr>
 </table></div><!-- contents -->

diff --git a/classalexen_1_1tiny__logger_1_1LoggerRecord.html b/classalexen_1_1tiny__logger_1_1LoggerRecord.html
@@ -77,9 +77,9 @@ $(function() {
 <table class="memberdecls">
 <tr class="heading"><td colspan="2"><h2 class="groupheader"><a id="pub-methods" name="pub-methods"></a>
 Открытые члены</h2></td></tr>
-<tr class="memitem:a8affdf260e7fc0279e964a2119d3c8c8"><td class="memItemLeft" align="right" valign="top"><a id="a8affdf260e7fc0279e964a2119d3c8c8" name="a8affdf260e7fc0279e964a2119d3c8c8"></a>
-&#160;</td><td class="memItemRight" valign="bottom"><b>LoggerRecord</b> (std::ostream &amp;os, const <a class="el" href="logger_8h.html#aec4cb4747f49b847e8ebcaaf7c097165">Level</a> level)</td></tr>
-<tr class="separator:a8affdf260e7fc0279e964a2119d3c8c8"><td class="memSeparator" colspan="2">&#160;</td></tr>
+<tr class="memitem:a9b75d0715802203ce4ccd0d65951eda8"><td class="memItemLeft" align="right" valign="top"><a id="a9b75d0715802203ce4ccd0d65951eda8" name="a9b75d0715802203ce4ccd0d65951eda8"></a>
+&#160;</td><td class="memItemRight" valign="bottom"><b>LoggerRecord</b> (boost::mutex &amp;m, std::ostream &amp;os, const <a class="el" href="logger_8h.html#aec4cb4747f49b847e8ebcaaf7c097165">Level</a> level)</td></tr>
+<tr class="separator:a9b75d0715802203ce4ccd0d65951eda8"><td class="memSeparator" colspan="2">&#160;</td></tr>
 <tr class="memitem:a2beb5517296e1d19a96a37908b32c3c0"><td class="memTemplParams" colspan="2">template&lt;typename T &gt; </td></tr>
 <tr class="memitem:a2beb5517296e1d19a96a37908b32c3c0"><td class="memTemplItemLeft" align="right" valign="top"><a class="el" href="classalexen_1_1tiny__logger_1_1LoggerRecord.html">LoggerRecord</a> &amp;&#160;</td><td class="memTemplItemRight" valign="bottom"><a class="el" href="classalexen_1_1tiny__logger_1_1LoggerRecord.html#a2beb5517296e1d19a96a37908b32c3c0">operator&lt;&lt;</a> (const T &amp;value)</td></tr>
 <tr class="separator:a2beb5517296e1d19a96a37908b32c3c0"><td class="memSeparator" colspan="2">&#160;</td></tr>

diff --git a/logger_8h.html b/logger_8h.html
@@ -82,22 +82,26 @@ $(function() {
 <code>#include &lt;boost/filesystem/path.hpp&gt;</code><br />
 <code>#include &lt;boost/filesystem/fstream.hpp&gt;</code><br />
 <code>#include &lt;boost/iostreams/filtering_stream.hpp&gt;</code><br />
+<code>#include &lt;boost/thread/mutex.hpp&gt;</code><br />
+<code>#include &lt;boost/thread/lock_guard.hpp&gt;</code><br />
 <code>#include &lt;<a class="el" href="rotator_8h_source.html">logger/rotator.h</a>&gt;</code><br />
 </div><div class="textblock"><div class="dynheader">
 Граф включаемых заголовочных файлов для logger.h:</div>
 <div class="dyncontent">
 <div class="center"><img src="logger_8h__incl.png" border="0" usemap="#alogger_2logger_8h" alt=""/></div>
 <map name="alogger_2logger_8h" id="alogger_2logger_8h">
-<area shape="rect" title=" " alt="" coords="582,5,689,32"/>
+<area shape="rect" title=" " alt="" coords="709,5,815,32"/>
 <area shape="rect" title=" " alt="" coords="5,87,65,114"/>
 <area shape="rect" title=" " alt="" coords="90,87,162,114"/>
 <area shape="rect" title=" " alt="" coords="187,87,329,114"/>
 <area shape="rect" title=" " alt="" coords="354,87,522,114"/>
 <area shape="rect" title=" " alt="" coords="547,87,724,114"/>
-<area shape="rect" title=" " alt="" coords="921,169,1091,196"/>
+<area shape="rect" title=" " alt="" coords="1117,169,1287,196"/>
 <area shape="rect" title=" " alt="" coords="800,87,988,114"/>
 <area shape="rect" title=" " alt="" coords="1013,80,1173,121"/>
-<area shape="rect" href="rotator_8h.html" title=" " alt="" coords="1197,87,1305,114"/>
+<area shape="rect" title=" " alt="" coords="1197,87,1354,114"/>
+<area shape="rect" title=" " alt="" coords="1379,87,1564,114"/>
+<area shape="rect" href="rotator_8h.html" title=" " alt="" coords="1588,87,1696,114"/>
 </map>
 </div>
 </div><div class="textblock"><div class="dynheader">

diff --git a/macro_8h.html b/macro_8h.html
@@ -85,7 +85,7 @@ $(function() {
 <area shape="rect" title=" " alt="" coords="5,80,93,107"/>
 <area shape="rect" title=" " alt="" coords="117,80,243,107"/>
 <area shape="rect" title=" " alt="" coords="246,244,415,271"/>
-<area shape="rect" href="logger_8h.html" title=" " alt="" coords="657,80,764,107"/>
+<area shape="rect" href="logger_8h.html" title=" " alt="" coords="847,80,953,107"/>
 <area shape="rect" title=" " alt="" coords="369,162,429,189"/>
 <area shape="rect" title=" " alt="" coords="453,162,525,189"/>
 <area shape="rect" title=" " alt="" coords="550,162,693,189"/>
@@ -93,7 +93,9 @@ $(function() {
 <area shape="rect" title=" " alt="" coords="910,162,1087,189"/>
 <area shape="rect" title=" " alt="" coords="1111,162,1299,189"/>
 <area shape="rect" title=" " alt="" coords="1324,155,1484,196"/>
-<area shape="rect" href="rotator_8h.html" title=" " alt="" coords="1509,162,1617,189"/>
+<area shape="rect" title=" " alt="" coords="1508,162,1665,189"/>
+<area shape="rect" title=" " alt="" coords="1690,162,1875,189"/>
+<area shape="rect" href="rotator_8h.html" title=" " alt="" coords="1899,162,2007,189"/>
 </map>
 </div>
 </div>
